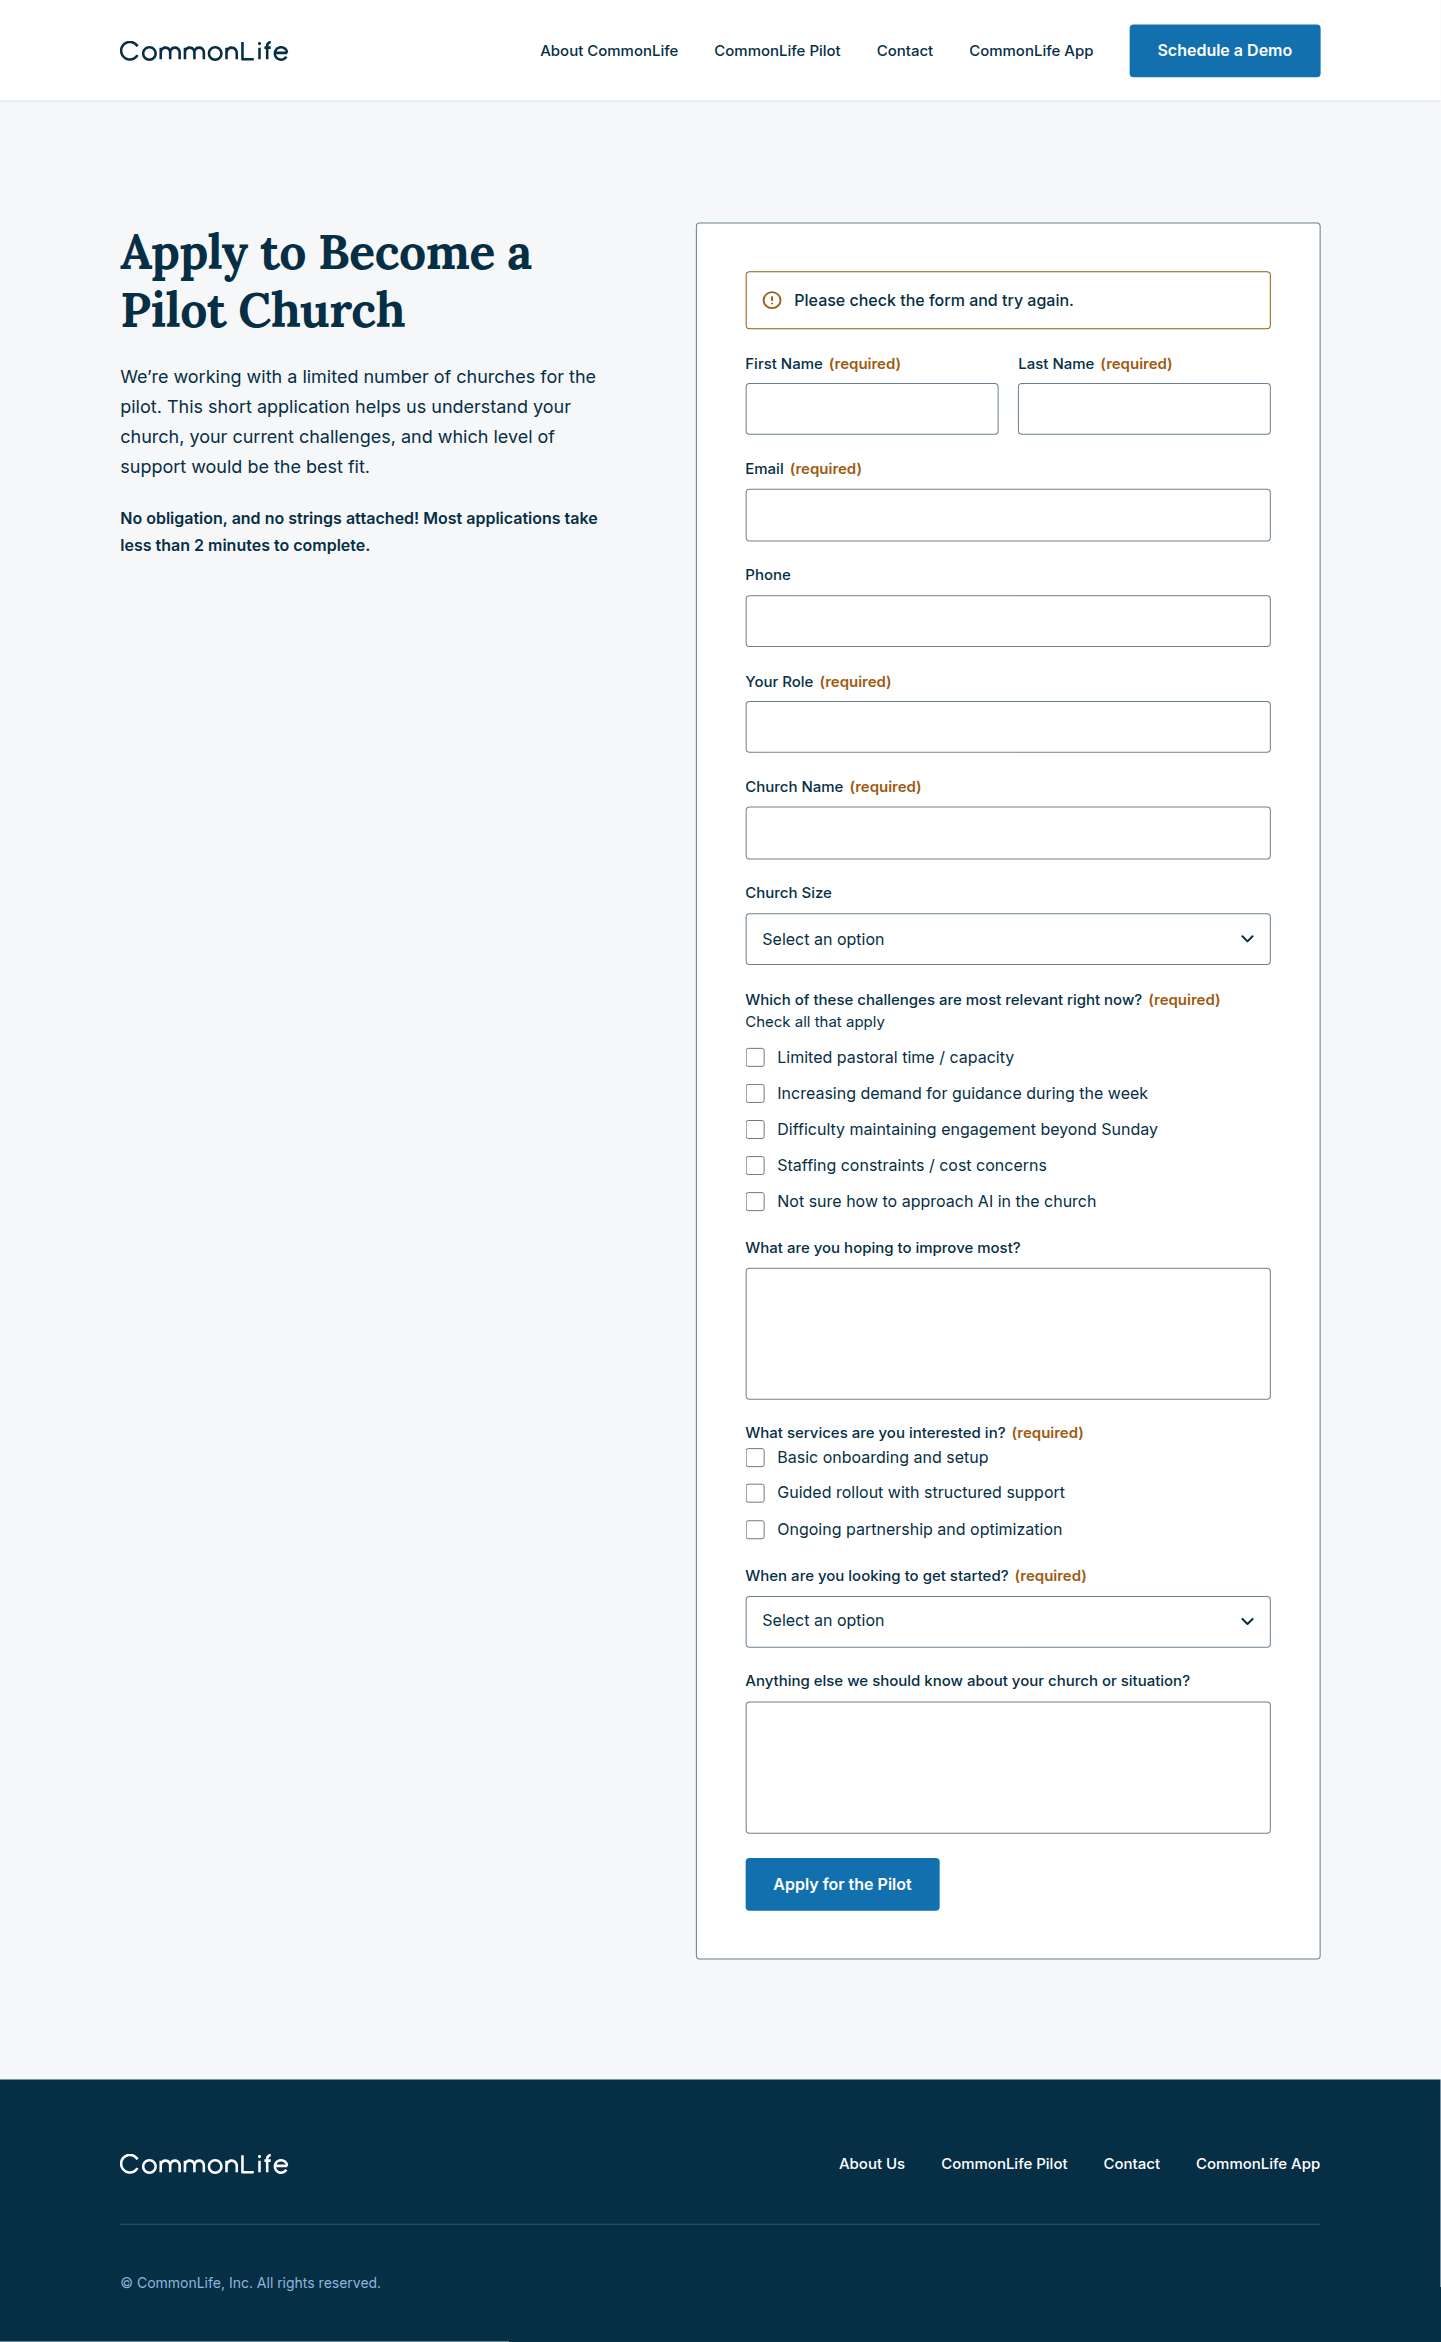
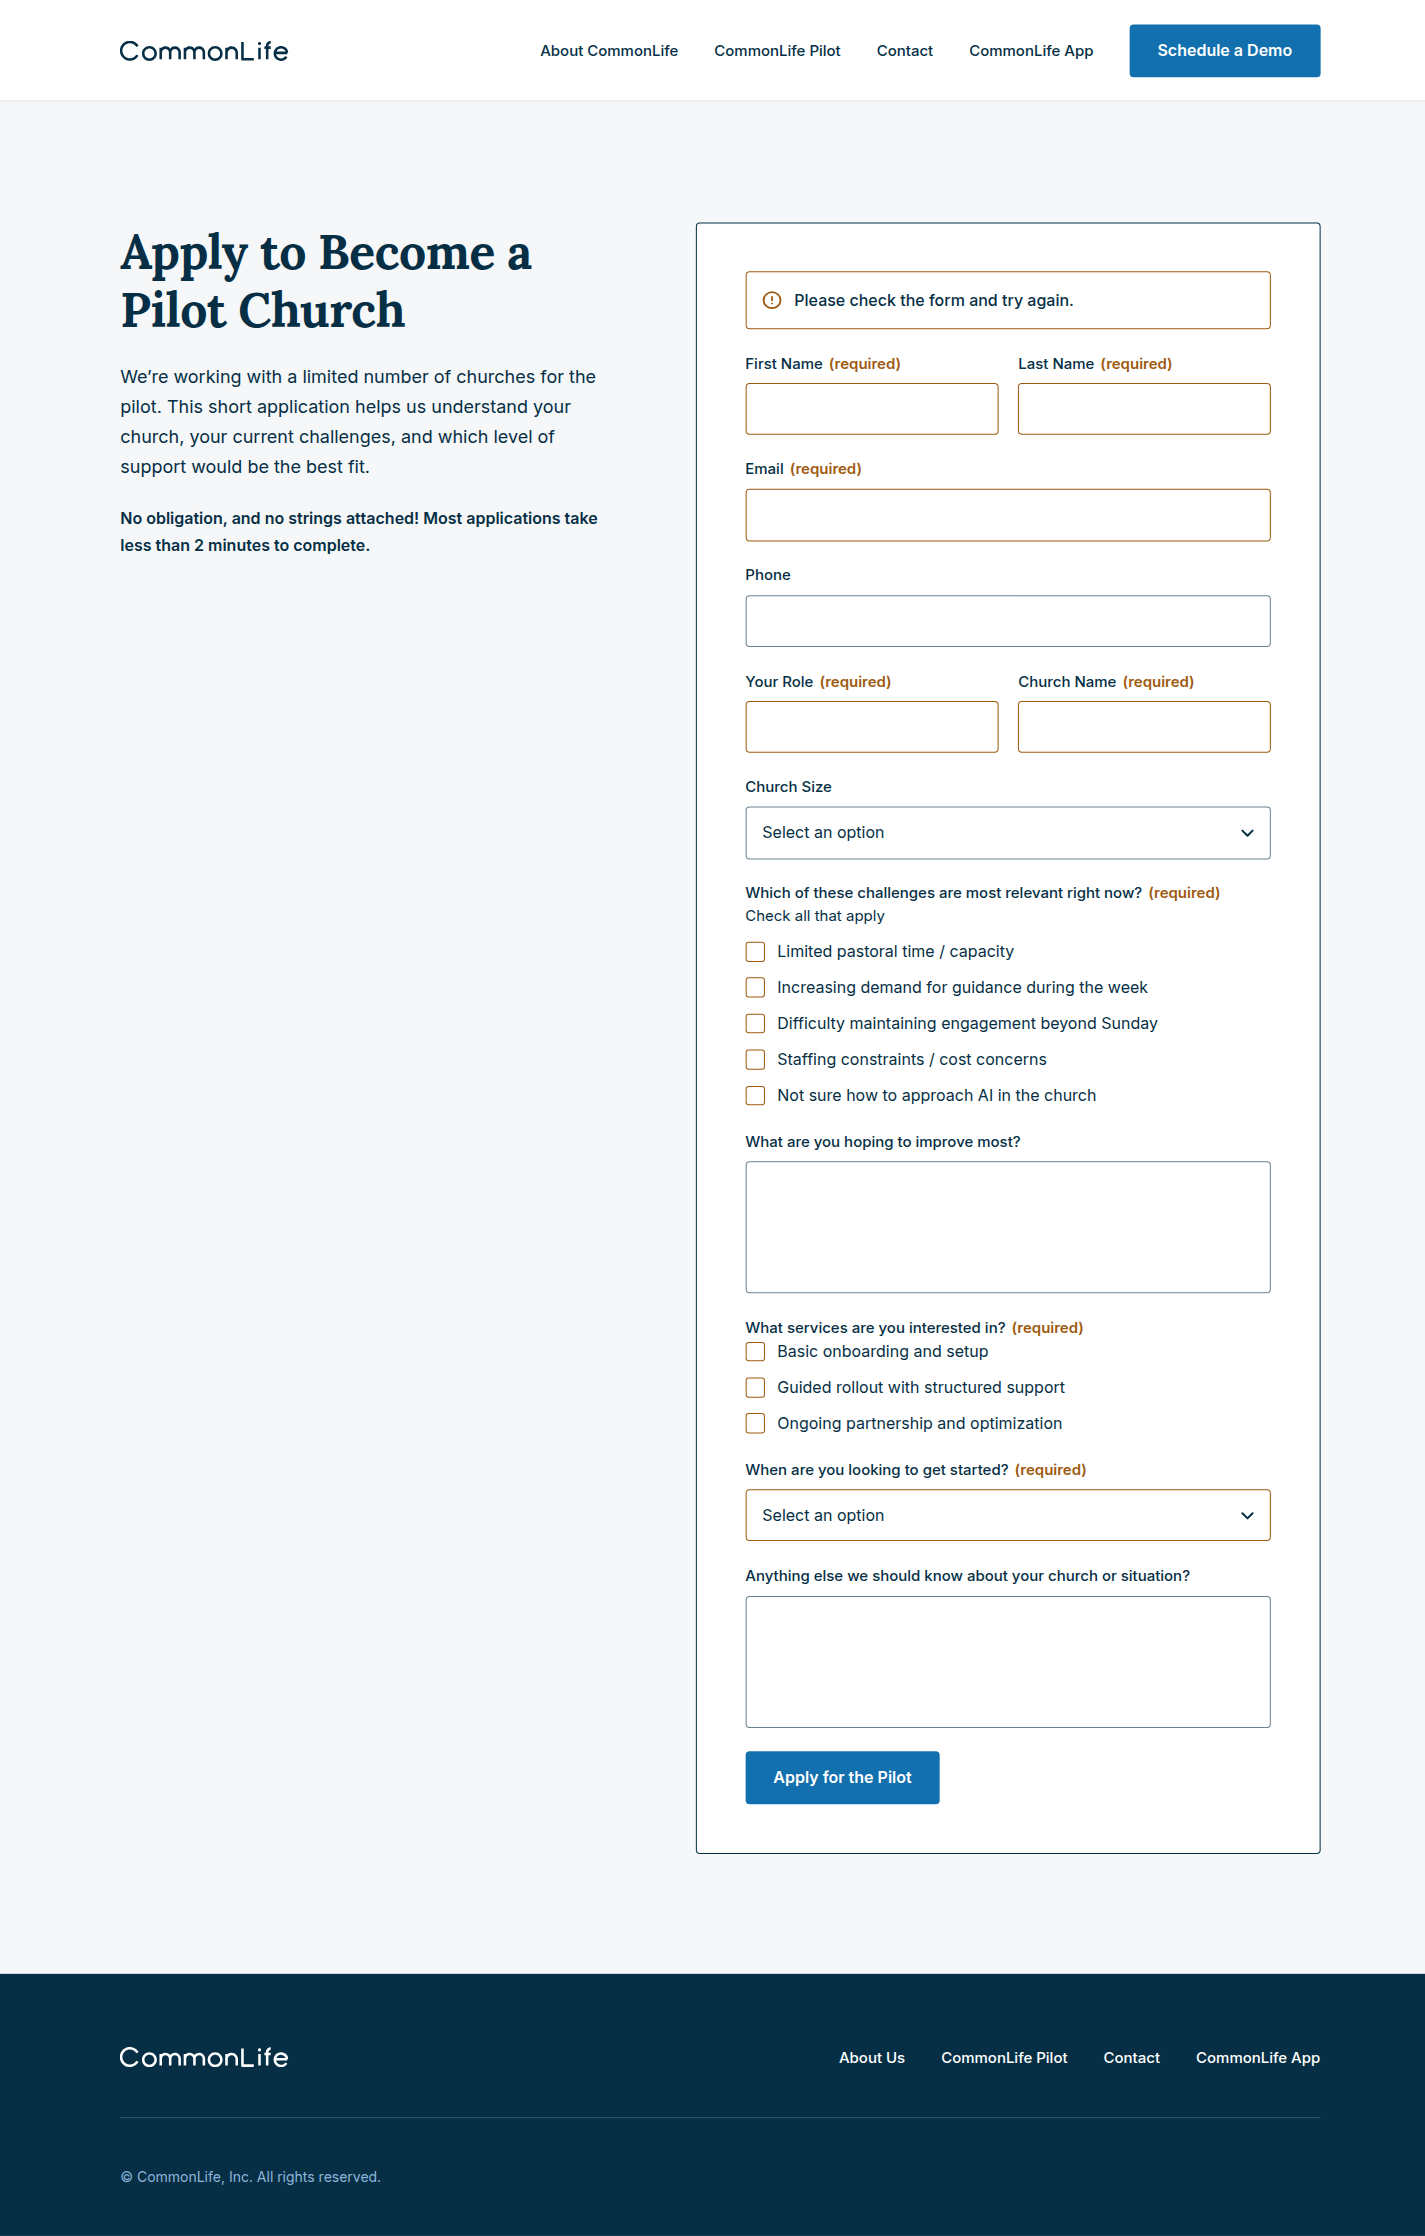
Fix field error borders and the round 2 polish notes.
Errored inputs and checkboxes use a 2px amber border and aria-invalid. The success card links to About, and the 404 and About layouts follow the frames.

diff --git a/components/forms/Fields.tsx b/components/forms/Fields.tsx
@@ -1,7 +1,9 @@
-export const inputClass =
-  "h-[52px] w-full rounded-[4px] border border-clDeepOcean/60 bg-clWhite pl-4 pr-3.5 font-inter text-base text-clDeepOcean focus-visible:outline-2 focus-visible:outline-offset-2 focus-visible:outline-clBlue";
+const inputBase =
+  "h-[52px] w-full rounded-[4px] bg-clWhite pl-4 pr-3.5 font-inter text-base text-clDeepOcean focus-visible:outline-2 focus-visible:outline-offset-2 focus-visible:outline-clBlue";
 
-export const inputErrorClass = "border-2 border-clAmber";
+export function fieldBorder(error?: boolean) {
+  return error ? "border-2 border-clAmber" : "border border-clDeepOcean/60";
+}
 
 export function RequiredMark({ error }: { error: boolean }) {
   return (
@@ -55,8 +57,8 @@ export function TextField({
         name={name}
         type={type}
         autoComplete={autoComplete}
-        aria-invalid={error || undefined}
-        className={`${inputClass} ${error ? inputErrorClass : ""}`}
+        aria-invalid={error ? true : undefined}
+        className={`${inputBase} ${fieldBorder(error)}`}
       />
     </div>
   );
@@ -82,8 +84,8 @@ export function TextAreaField({
         id={id}
         name={name}
         rows={4}
-        aria-invalid={error || undefined}
-        className={`${inputClass} h-[132px] resize-none py-3.5 ${error ? inputErrorClass : ""}`}
+        aria-invalid={error ? true : undefined}
+        className={`${inputBase} h-[132px] resize-none py-3.5 ${fieldBorder(error)}`}
       />
     </div>
   );
@@ -112,8 +114,8 @@ export function SelectField({
           id={id}
           name={name}
           defaultValue=""
-          aria-invalid={error || undefined}
-          className={`${inputClass} appearance-none pr-10 ${error ? inputErrorClass : ""}`}
+          aria-invalid={error ? true : undefined}
+          className={`${inputBase} appearance-none pr-10 ${fieldBorder(error)}`}
         >
           <option value="">Select an option</option>
           {options.map((option) => (
@@ -151,7 +153,7 @@ export function CheckGroup({
   error?: boolean;
 }) {
   return (
-    <fieldset className="flex flex-col gap-3">
+    <fieldset className="flex flex-col gap-3" aria-invalid={error ? true : undefined}>
       <legend className="flex flex-wrap gap-x-1.5 font-inter text-[15px] font-medium leading-[22px] text-clDeepOcean">
         <span>{legend}</span>
         {required ? <RequiredMark error={Boolean(error)} /> : null}
@@ -160,12 +162,22 @@ export function CheckGroup({
       <div className="flex flex-col gap-3">
         {options.map((option) => (
           <label key={option} className="flex items-start gap-3 font-inter text-base leading-6 text-clDeepOcean">
-            <input
-              type="checkbox"
-              name={name}
-              value={option}
-              className={`mt-0.5 size-5 shrink-0 rounded-[3px] border border-clDeepOcean/60 accent-clDeepOcean ${error ? "border-2 border-clAmber" : ""}`}
-            />
+            <span className="relative mt-0.5 inline-flex size-5 shrink-0">
+              <input
+                type="checkbox"
+                name={name}
+                value={option}
+                aria-invalid={error ? true : undefined}
+                className={`peer size-5 appearance-none rounded-[3px] bg-clWhite focus-visible:outline-2 focus-visible:outline-offset-2 focus-visible:outline-clBlue ${fieldBorder(error)}`}
+              />
+              <svg
+                viewBox="0 0 16 16"
+                aria-hidden="true"
+                className="pointer-events-none absolute inset-0 hidden size-5 text-clDeepOcean peer-checked:block"
+              >
+                <path d="M3.5 8.5 L6.5 11.5 L12.5 4.5" fill="none" stroke="currentColor" strokeWidth="1.75" strokeLinecap="round" strokeLinejoin="round" />
+              </svg>
+            </span>
             <span>{option}</span>
           </label>
         ))}

diff --git a/components/forms/PilotApplicationForm.tsx b/components/forms/PilotApplicationForm.tsx
@@ -1,5 +1,6 @@
 "use client";
 
+import Link from "next/link";
 import { useState } from "react";
 import { CONTACT_ERRORS } from "@/lib/contact-fields";
 import { CHALLENGE_OPTIONS, CHURCH_SIZES, SERVICE_OPTIONS, START_OPTIONS } from "@/lib/form-schemas";
@@ -51,7 +52,7 @@ export default function PilotApplicationForm() {
 
   if (status === "sent") {
     return (
-      <div className="flex flex-col gap-4 rounded-[4px] border border-clDeepOcean/60 bg-clWhite p-8 min-[1180px]:p-12">
+      <div className="flex flex-col gap-4 rounded-[4px] border border-clDeepOcean bg-clWhite p-8 min-[1180px]:p-12">
         {/* eslint-disable-next-line @next/next/no-img-element -- success icon */}
         <img src="/homepage/icon-circle-check.svg" alt="" width={28} height={28} />
         <p className="font-lora text-[30px] font-bold leading-[38px] text-clDeepOcean min-[1180px]:text-[40px] min-[1180px]:leading-[48px]">
@@ -60,6 +61,14 @@ export default function PilotApplicationForm() {
         <p className="font-inter text-[17px] leading-7 text-clDeepOcean">
           A member of the CommonLife team will review your submission and reach out shortly to discuss next steps and confirm fit for the pilot.
         </p>
+        <Link
+          href="/about"
+          className="inline-flex w-fit items-center gap-2 py-2 font-inter text-base font-semibold text-clBlue hover:underline hover:underline-offset-4 focus-visible:outline-2 focus-visible:outline-offset-2 focus-visible:outline-clBlue"
+        >
+          About CommonLife
+          {/* eslint-disable-next-line @next/next/no-img-element -- decorative arrow */}
+          <img src="/homepage/icon-arrow-right.svg" alt="" width={18} height={18} />
+        </Link>
       </div>
     );
   }
@@ -67,7 +76,7 @@ export default function PilotApplicationForm() {
   const invalid = (name: string) => fields.includes(name);
 
   return (
-    <form onSubmit={onSubmit} noValidate className="flex flex-col gap-6 rounded-[4px] border border-clDeepOcean/60 bg-clWhite p-6 min-[768px]:p-8 min-[1180px]:p-12">
+    <form onSubmit={onSubmit} noValidate className="flex flex-col gap-6 rounded-[4px] border border-clDeepOcean bg-clWhite p-6 min-[768px]:p-8 min-[1180px]:p-12">
       {status === "error" ? <FormAlert>{CONTACT_ERRORS.invalid}</FormAlert> : null}
       <div className="flex flex-col gap-5 min-[768px]:flex-row">
         <TextField id="pilot-first" name="firstName" label="First Name" required autoComplete="given-name" error={invalid("firstName")} />
@@ -75,8 +84,10 @@ export default function PilotApplicationForm() {
       </div>
       <TextField id="pilot-email" name="email" label="Email" type="email" required autoComplete="email" error={invalid("email")} />
       <TextField id="pilot-phone" name="phone" label="Phone" type="tel" autoComplete="tel" />
-      <TextField id="pilot-role" name="role" label="Your Role" required error={invalid("role")} />
-      <TextField id="pilot-church" name="churchName" label="Church Name" required error={invalid("churchName")} />
+      <div className="flex flex-col gap-5 min-[768px]:flex-row">
+        <TextField id="pilot-role" name="role" label="Your Role" required error={invalid("role")} />
+        <TextField id="pilot-church" name="churchName" label="Church Name" required error={invalid("churchName")} />
+      </div>
       <SelectField id="pilot-size" name="churchSize" label="Church Size" options={CHURCH_SIZES} />
       <CheckGroup
         legend="Which of these challenges are most relevant right now?"

diff --git a/app/not-found.tsx b/app/not-found.tsx
@@ -1,7 +1,18 @@
+import type { Metadata } from "next";
 import Link from "next/link";
 import Footer from "@/components/Footer";
 import Navbar from "@/components/Navbar";
 import { focusRing, shell } from "@/lib/chrome";
+
+export const metadata: Metadata = {
+  title: "We couldn’t find the page you were looking for. — CommonLife",
+  description: "We couldn’t find the page you were looking for.",
+};
+
+const reasons = [
+  "There is an error in the URL entered into your web browser. Please check the URL and try again.",
+  "The page you are looking for has been moved or deleted.",
+];
 
 export default function NotFound() {
   return (
@@ -14,10 +25,13 @@ export default function NotFound() {
               We couldn’t find the page you were looking for.
             </h1>
             <p className="font-inter text-[17px] leading-7">This is either because:</p>
-            <ul className="list-disc space-y-3 pl-5 font-inter text-[17px] leading-7">
-              <li>There is an error in the URL entered into your web browser. Please check the URL and try again.</li>
-              <li>The page you are looking for has been moved or deleted.</li>
-            </ul>
+            <div>
+              {reasons.map((reason) => (
+                <p key={reason} className="border-t border-clDeepOcean py-4 font-inter text-[17px] leading-7">
+                  {reason}
+                </p>
+              ))}
+            </div>
             <p className="font-inter text-[17px] leading-7">
               You can return to our homepage by{" "}
               <Link href="/" className={`text-clBlue underline underline-offset-4 ${focusRing}`}>

diff --git a/components/forms/ContactForm.tsx b/components/forms/ContactForm.tsx
@@ -46,7 +46,7 @@ export default function ContactForm() {
 
   if (status === "sent") {
     return (
-      <div className="rounded-[4px] border border-clDeepOcean/60 bg-clWhite p-8 min-[1180px]:p-12">
+      <div className="rounded-[4px] border border-clDeepOcean bg-clWhite p-8 min-[1180px]:p-12">
         <p className="font-lora text-[40px] font-bold leading-[48px] text-clDeepOcean min-[1180px]:text-[48px] min-[1180px]:leading-[58px]">
           Thank you!
         </p>
@@ -57,7 +57,7 @@ export default function ContactForm() {
   const invalid = (name: string) => fields.includes(name);
 
   return (
-    <form onSubmit={onSubmit} noValidate className="flex flex-col gap-6 rounded-[4px] border border-clDeepOcean/60 bg-clWhite p-6 min-[768px]:p-8 min-[1180px]:p-12">
+    <form onSubmit={onSubmit} noValidate className="flex flex-col gap-6 rounded-[4px] border border-clDeepOcean bg-clWhite p-6 min-[768px]:p-8 min-[1180px]:p-12">
       {status === "error" ? <FormAlert>{CONTACT_ERRORS.delivery}</FormAlert> : null}
       <div className="flex flex-col gap-5 min-[768px]:flex-row">
         <TextField id="contact-first" name="firstName" label="First Name" required autoComplete="given-name" error={invalid("firstName")} />

diff --git a/app/about/page.tsx b/app/about/page.tsx
@@ -18,13 +18,13 @@ export default function AboutPage() {
       <main>
         <section className="bg-clWhite">
           <div className={`${shell} flex flex-col gap-10 py-16 min-[1180px]:flex-row min-[1180px]:items-center min-[1180px]:gap-24 min-[1180px]:py-[120px]`}>
-            <div className="flex max-w-[600px] flex-col gap-7">
+            <div className="order-2 flex max-w-[600px] flex-col gap-7 min-[1180px]:order-1">
               <h1 className={h1Class}>Our Story</h1>
               <p className="font-lora text-[18px] leading-7 min-[768px]:text-[20px] min-[768px]:leading-8 min-[1180px]:text-[22px] min-[1180px]:leading-[34px]">
                 CommonLife, founded in 2024, makes biblically accurate wisdom accessible worldwide
               </p>
             </div>
-            <div className="relative h-[320px] w-full min-[768px]:h-[420px] min-[1180px]:h-[560px] min-[1180px]:flex-1">
+            <div className="relative order-1 h-[320px] w-full min-[768px]:h-[420px] min-[1180px]:order-2 min-[1180px]:h-[560px] min-[1180px]:flex-1">
               <Image
                 src="/homepage/photo-bibles-open-in-a-group-study-37313b0c.jpg"
                 alt="Bibles open in a group study"
